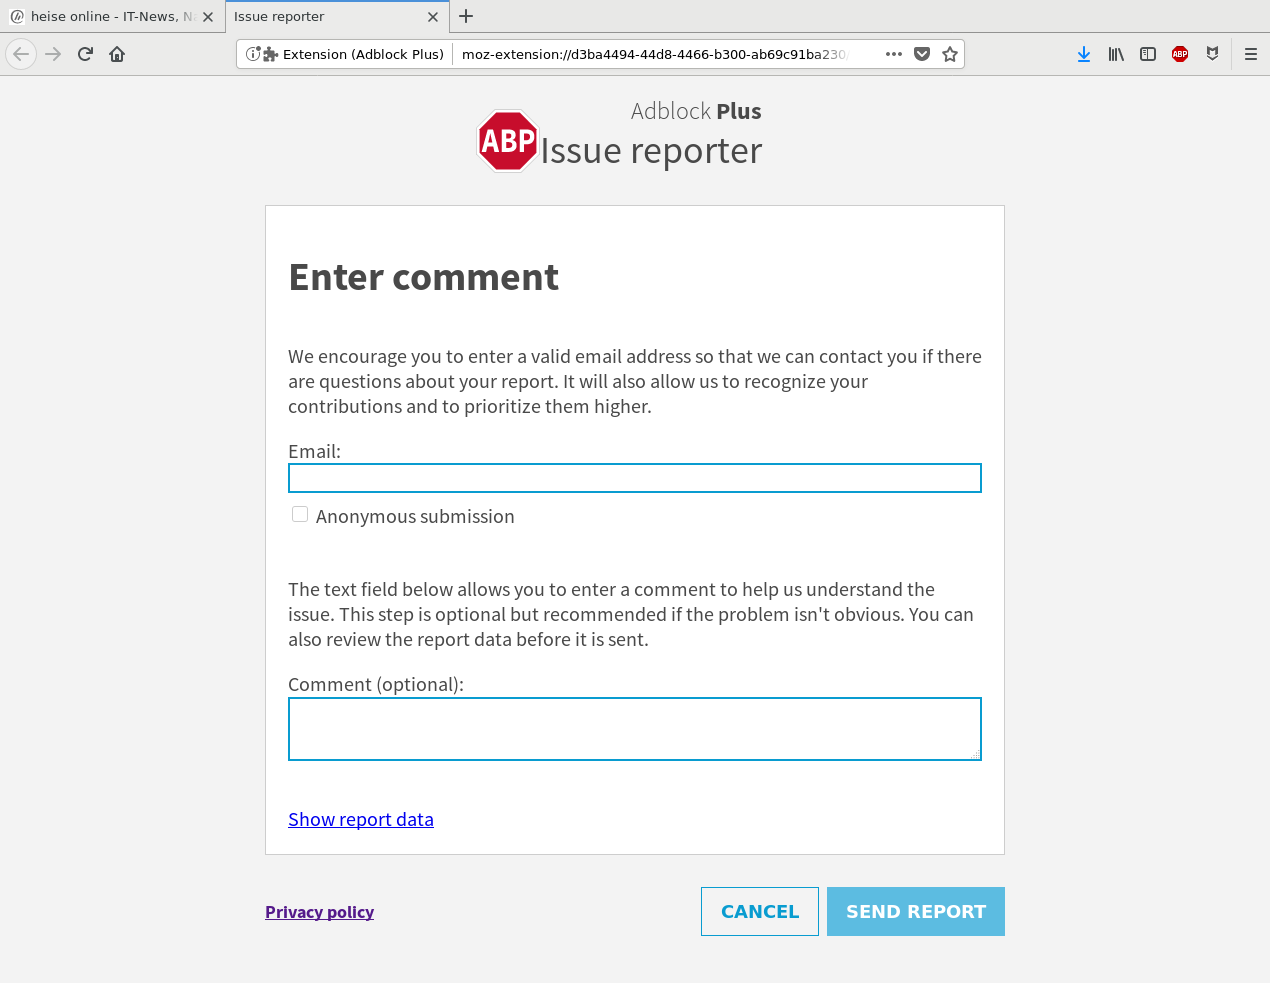
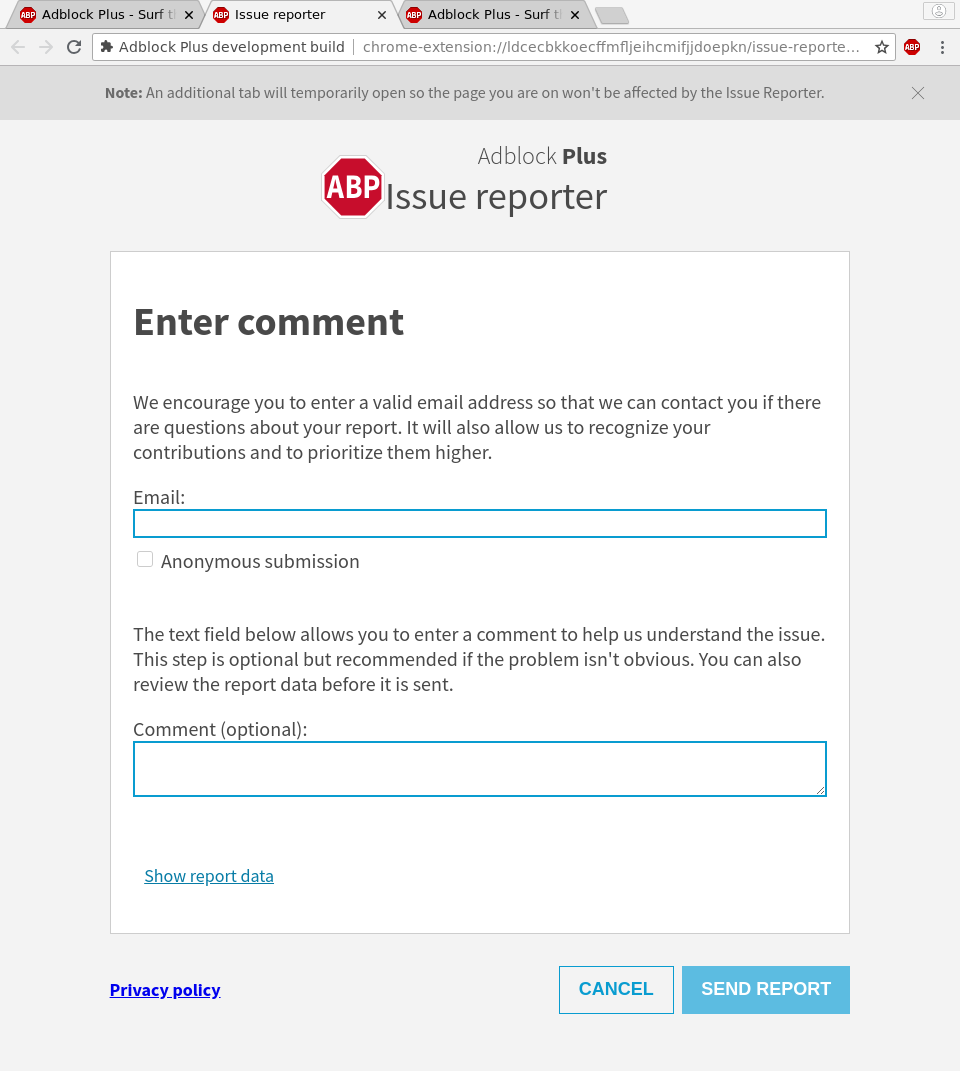
Fixes #125 - Added *Requests* and *Filters* to the Issue Reporter

diff --git a/spec/abp/issue-reporter.md b/spec/abp/issue-reporter.md
@@ -1,11 +1,13 @@
 # Issue reporter
 
 1. [Bubble UI](#bubble-ui)
-1. [Issue Reporter Entry](#issue-reporter-entry)
-1. [Issue Reporter Comment](#issue-reporter-comment)
-1. [Report Data Overlay](#report-data-overlay)
-1. [Send Report](#send-report)
-1. [Send Report Sent](#send-report-sent)
+1. [Issue Reporter Tab](#issue-reporter-tab)
+    1. [Issue Reporter Entry](#issue-reporter-entry)
+    1. [Issue Reporter Comment](#issue-reporter-comment)
+    1. [Report Data Overlay](#report-data-overlay)
+    1. [Send Report](#send-report)
+    1. [Send Report Sent](#send-report-sent)
+1. [Data gathering tab](#data-gathering-tab)
 1. [Report Data](#report-data)
 1. [Assets](#assets)
 
@@ -13,11 +15,19 @@
 
 ![](/res/abp/issue-reporter/bubble-ui.png)
 
-Clicking `Report issue on this page` in the Bubble UI will open the [Entry](#issue-reporter-entry)
+Clicking `Report issue on this page` in the Bubble UI will:
 
+1. Open the [Issue Reporter Tab](#issue-reporter-tab) in a new active tab.
+1. Open the page the user had opened in the previously active tab in the [Data gathering tab](#data-gathering-tab). The [Data gathering tab](#data-gathering-tab) should be opened in a new background tab to record all [Requests](#requests) and [Filters](#filters) to include in the [Report Data](#report-data).
+1. Display a message within a banner on the Issue reporter (on all steps) `**Note**: An additional tab will temporarily open so the page you are on won't be affected by the Issue Reporter.`, the banner should be closeable via the *X* icon.
 
-[Back to top of page](#header-issue-reporter)
-## Issue Reporter Entry
+![](/res/abp/issue-reporter/select-issue.jpg)
+
+[Back to top of page](#issue-reporter)
+
+## Issue reporter tab
+
+### Issue Reporter Entry
 
 ![](/res/abp/issue-reporter/issue-reporter-entry.png)
 
@@ -32,11 +42,11 @@ Clicking `Report issue on this page` in the Bubble UI will open the [Entry](#iss
 1. [Cancel Button](#cancel-button)
 1. [Continue Button](#continue-button)
 
-### Cancel Button
+#### Cancel Button
 
-Button labelled `Cancel`. Closes the *Issue Reporter* window.
+Button labelled `Cancel`. Closes the [Issue Reporter Tab](#issue-reporter-tab) and the [Data gathering tab](#data-gathering-tab).
 
-### Continue Button
+#### Continue Button
 
 Button labelled `Continue`. Disabled as long as neither [False Positive Checkbox](#false-positive-checkbox) nor [False Negative Checkbox](#false-negative-checkbox) are checked. Opens [Issue Reporter Comment](#issue-reporter-comment)
 
@@ -50,8 +60,8 @@ Button labelled `Continue`. Disabled as long as neither [False Positive Checkbox
 1. `Adblock Plus doesn't block an advertisement`
 1. `Select this option if an advertisement is displayed despite Adblock Plus being enabled.`
 
-[Back to top of page](#header-issue-reporter)
-## Issue Reporter Comment
+[Back to top of page](#issue-reporter)
+### Issue Reporter Comment
 
 ![](/res/abp/issue-reporter/issue-reporter-comment.png)
 
@@ -62,50 +72,63 @@ Button labelled `Continue`. Disabled as long as neither [False Positive Checkbox
 1. `The text field below allows you to enter a comment to help us understand the issue. This step is optional but recommended if the problem isn't obvious. You can also review the report data before it is sent.`
 1. [Comment Textarea](#comment-textarea)
 1. `Show report data` opens [Report Data Overlay](#report-data-overlay)
+1. [Show report data link](#show-report-data-link)
 1. [Send Report Button](#send-report-button)
 
-### Email Input
+#### Email Input
 
 Input of type [email](https://developer.mozilla.org/en-US/docs/Web/HTML/Element/input/email) labelled `Email:`
 
 Hightlighted red if invalid:
 ![](/res/abp/issue-reporter/issue-reporter-email-invalid.png)
 
-### Anonymous Checkbox
+#### Anonymous Checkbox
 
-Checkbox labelled `Anonymous submission`.
+Checkbox labelled `I would like to submit my issue anonymously`.
 
 If checked disables [Email Input](#email-input):
 ![](/res/abp/issue-reporter/issue-reporter-email-disabled.png)
 
-1. `We won't be able to come back to you and will likely prioritize the report lower.`
+#### Comment Textarea
 
-### Comment Textarea
+Textarea labelled `Please help us better understand the issue by leaving a comment below.`.
 
-Textarea labelled `Comment (optional):`.
+#### Show report data link
 
-### Send Report Button
+Link labelled `Show report data`.
 
-Button labelled `Send report`. Start the transfer of the [Report Data](#report-data) and opens [Send Report](#send-report).
+Is disabled until [Data gathering tab](#data-gathering-tab) has [loaded](https://developer.mozilla.org/en-US/docs/Web/Events/load) or the [Minimum data gethering time](#minimum-data-gethering-time) is elapsed.
+
+Closes the [Data gathering tab](#data-gathering-tab) and opens the [Report Data Overlay](#report-data-overlay).
+
+
+#### Send Report Button
+
+Button labelled `Send report`.
+
+Is disabled until [Data gathering tab](#data-gathering-tab) has [loaded](https://developer.mozilla.org/en-US/docs/Web/Events/load) or the [Minimum data gethering time](#minimum-data-gethering-time) is elapsed.
+
+Closes the [Data gathering tab](#data-gathering-tab), starts the transfer of the [Report Data](#report-data) and opens [Send Report](#send-report).
+
 
 [Back to top of page](#issue-reporter)
-## Report Data Overlay
+### Report Data Overlay
 
 ![](/res/abp/issue-reporter/issue-reporter-data.png)
 
 1. [Report Data Textarea](#report-data-textarea)
 1. [Report Data Close Button](#report-data-close-button)
 
-### Report Data Textarea
+#### Report Data Textarea
 
 Readonly Textarea that shows the [report data](#report-data) to be sent.
 
-### Report Data Close Button
+#### Report Data Close Button
 
 Button labelled `Cancel` closes the [Report Data Overlay](#report-data-overlay).
 
-[Back to top of page](#header-issue-reporter)
-## Send Report
+[Back to top of page](#issue-reporter)
+### Send Report
 
 ![](/res/abp/issue-reporter/issue-reporter-send.png)
 
@@ -113,8 +136,8 @@ Button labelled `Cancel` closes the [Report Data Overlay](#report-data-overlay).
 1. `Please wait while Adblock Plus is submitting your report.`
 1. [Done Button](#done-button) is disabled.
 
-[Back to top of page](#header-issue-reporter)
-## Send Report Sent
+[Back to top of page](#issue-reporter)
+### Send Report Sent
 
 ![](/res/abp/issue-reporter/issue-reporter-send-sent.png)
 
@@ -122,34 +145,205 @@ Button labelled `Cancel` closes the [Report Data Overlay](#report-data-overlay).
 1. [Report Link](#report-link)
 1. [Done Button](#done-button)
 
-### Report Link
+#### Report Link
 
 Link labeled with the *href* that links to the submitted report.
 
-### Done Button
+#### Done Button
 
-Button labelled `Done` that will close the *Issue Reporter* window.
+Button labelled `Done` that will close the [Issue Reporter Tab](#issue-reporter-tab).
 
+### Data gathering tab
+
+When the issue reporter is opened, the page for which an issue is being reported will be opened in the [Data gathering tab](#data-gathering-tab).
+
+The [Data gathering tab](#data-gathering-tab) will gather all [Requests](#requests) and all [Filters](#filters) for as long as the tab is opened.
+
+Once the page has loaded ([load](https://developer.mozilla.org/en-US/docs/Web/Events/load)) or the [minumum data gathering time](#minumum-data-gathering-time) has elapsed the [Data gethering tab](#data-gathering-tab) will scroll to the same viewport the user was using in the original page when he opnend the [Issue Reporter](#issue-reporter).
+
+#### Minimum data gethering time
+
+We'll gather [Requests](#requests) and all [Filters](#filters) for at least 5 seconds.
 
 ## Report Data
 
-```
+
+### Report
+
+The root element of the report with the type of the report: *false positive* if the user selected the [False Positive Checkbox](#false-positive-checkbox) or *false negative* if the user selected the [False Negative Checkbox](#false-negative-checkbox).
+
+```xml
 <report type="false positive">
-<window url="https://www.heise.de/"/>
-<subscriptions>
-<subscription id="https://easylist-downloads.adblockplus.org/easylist.txt" version="201712110830" lastDownloadAttempt="-5871" lastDownloadSuccess="-5871" softExpiration="85997" hardExpiration="166929" downloadStatus="synchronize_ok" disabledFilters="0"/>
-<subscription id="https://easylist-downloads.adblockplus.org/exceptionrules.txt" version="201712110831" lastDownloadAttempt="-5871" lastDownloadSuccess="-5871" softExpiration="94043" hardExpiration="166929" downloadStatus="synchronize_ok" disabledFilters="0"/></subscriptions>
-<adblock-plus version="3.0.1" locale="en-US"/>
-<application name="Firefox" version="57.0" vendor="" userAgent="Mozilla/5.0 (X11; Linux x86_64; rv:57.0) Gecko/20100101 Firefox/57.0"/>
-<platform name="Gecko" version="57.0"/></report>
+...
+</report>
 ```
 
+#### Main URL
 
-[Back to top of page](#header-issue-reporter)
+The url of the main window (*mainURL*) the user opened the issue reporter on.
+
+```xml
+<window url="https://www.heise.de/"/>
+```
+
+#### Subscriptions
+
+A [subscription](#subscription) for each filter list the user has subscribed to.
+
+```xml
+<subscriptions>
+...
+</subscriptions>
+```
+
+##### Subscription
+
+The subscription consisting of:
+
+|Attribute|Value|
+|---------|-----|
+|*subscriptionVersion*|*version*|The version (YYYYMMDDhhmm) of the filter list|
+|*lastDownloadAttempt*|Number of seconds between now and the last attempt download attempt|
+|*lastDownloadSuccess*|Number of seconds between now and the last attempt download success|
+|*softExpiration*|The soft expiration date of the filter list. (The softExpiration represents the number of seconds between the next potential download attempt and now. It may be postponed if user is offline.)|
+|*hardExpiration*|The hard expiration date of the filter list. (The hardExpiration represents the number of seconds between the next potential download attempt in case download got postponed for too long and now.)|
+|*downloadStatus*|The download status of a filter list|
+|*disabledFilters*|The number of disabled filters in this filter list|
+
+```xml
+<subscription
+    id="https://easylist-downloads.adblockplus.org/easylist.txt"
+    version="201712110830"
+    lastDownloadAttempt="-5871"
+    lastDownloadSuccess="-5871"
+    softExpiration="85997"
+    hardExpiration="166929"
+    downloadStatus="synchronize_ok"
+    disabledFilters="0" />
+```
+
+#### AdblockPlus
+
+Information about AdblockPlus:
+
+|Attribute|Value|
+|---------|-----|
+|*version*|Version of the ABP Product|
+|*locale*|Locale the user is using the ABP Product in|
+
+```xml
+<adblock-plus version="3.0.1" locale="en-US"/>
+```
+
+#### Application
+
+Information about the Application (i.e. Browser) the user is using ABP in:
+
+|Attribute|Value|
+|---------|-----|
+|*name*|Name of the application (i.e. Browser) the user is using ABP in|
+|*version*|Version of the application (i.e. Browser) the user is using ABP in|
+|*vendor*|Name of the vendor of the application (i.e. Browser) the user is using ABP in|
+|*userAgent*|UserAgent of the application (i.e. Browser) the user is using ABP in|
+
+```xml
+<application
+    name="Firefox"
+    version="57.0"
+    vendor=""
+    userAgent="Mozilla/5.0 (X11; Linux x86_64; rv:57.0) Gecko/20100101 Firefox/57.0"/>
+```
+
+#### Platform
+
+Information about the Platform of the Application (i.e. Browser) the user is using ABP in:
+
+|Attribute|Value|
+|---------|-----|
+|*name*|Name of the Platform of the application (i.e. Browser) the user is usign ABP in|
+|*version*|Version the Platform of the application (i.e. Browser) the user is using ABP in|
+
+```xml
+<platform name="Gecko" version="57.0"/>
+```
+
+#### Requests
+
+A [request](#request) for each request the main window made.
+
+```xml
+<requests>
+...
+</requests>
+```
+
+##### Request
+
+|Attribute|Value|
+|---------|-----|
+|*location*|The location of a resource used by the page the issue report is issued for (Ommitted in case of type=ELEMHIDE).|
+|*type*|The type of the request, see [here](https://hg.adblockplus.org/adblockpluscore/file/9ad72e008065/lib/filterClasses.js#l798) for a list of all supported types|
+|*docDomain*|The domain of the document the resource is used on|
+|*thirdParty*|Whether or not the resource is a third party resource (location doesn't match docDomain)|
+|*count*|The number of times the request has been encountered|
+|*filter*|The text of the filter in case a filter hit was recorded. Omitted if no filter applies to this request|
+
+```xml
+<request
+    location="https://www.heise.de/js/mobile-deflect.min.js?ea85dfed7d6dc25326c5"
+    type="SCRIPT"
+    docDomain="www.heise.de"
+    thirdParty="false"
+    count="2" />
+<request
+    location="https://securepubads.g.doubleclick.net/gpt/pubads_impl_170.js"
+    type="SCRIPT"
+    docDomain="www.heise.de"
+    thirdParty="true"
+    count="1"
+    filter="@@||g.doubleclick.net/gpt/pubads_impl_$script,domain=~kizi.com"/>
+<request
+    type="ELEMHIDE"
+    docDomain="www.heise.de"
+    thirdParty="false"
+    count="1"
+    filter="##.wingadblock"/>
+```
+
+#### Filters
+
+A [filter](#filter) for each filter hit in the main window.
+
+```xml
+<filters>
+...
+</filters>
+```
+
+##### Filter
+
+|Attribute|Value|
+|---------|-----|
+|*text*|The text of an applied filter|
+|*subscriptions*|Space separated list of subscriptionURLs|
+|*hitCount*|The number of filter hits that where registered for this filter on the [Data gathering tab](#data-gathering-tab)|
+
+```xml
+<filter
+    text="@@||g.doubleclick.net/gpt/pubads_impl_$script,domain=~kizi.com"
+    subscriptions="https://easylist-downloads.adblockplus.org/exceptionrules.txt"
+    hitCount="2"/>
+<filter
+    text="##.wingadblock"
+    subscriptions="https://easylist-downloads.adblockplus.org/easylist.txt"
+    hitCount="1"/>
+```
+
+[Back to top of page](#issue-reporter)
 ## Assets
 
 | Name | Asset | 
 |-----------|---------------|
 | abp-logo.svg | ![](/res/abp/issue-reporter/assets/abp-logo.svg) |
 
-[Back to top of page](#header-issue-reporter)
+[Back to top of page](#issue-reporter)
